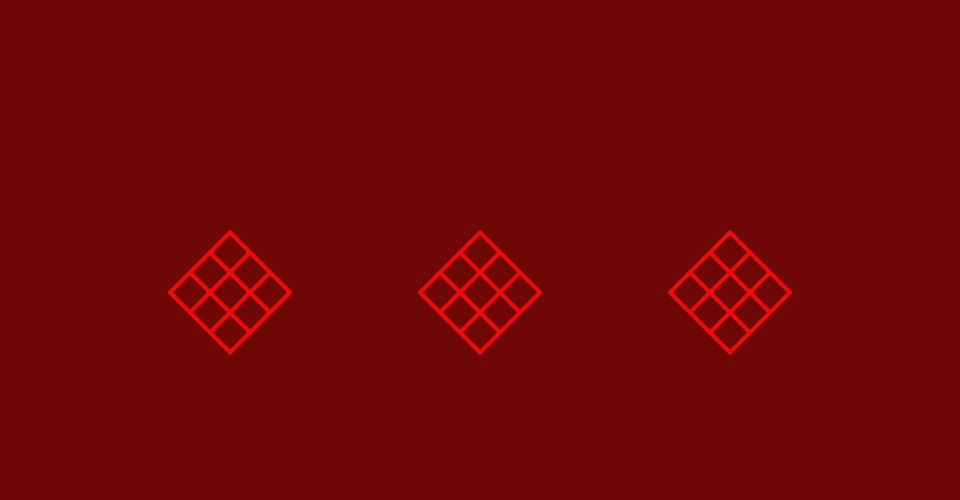
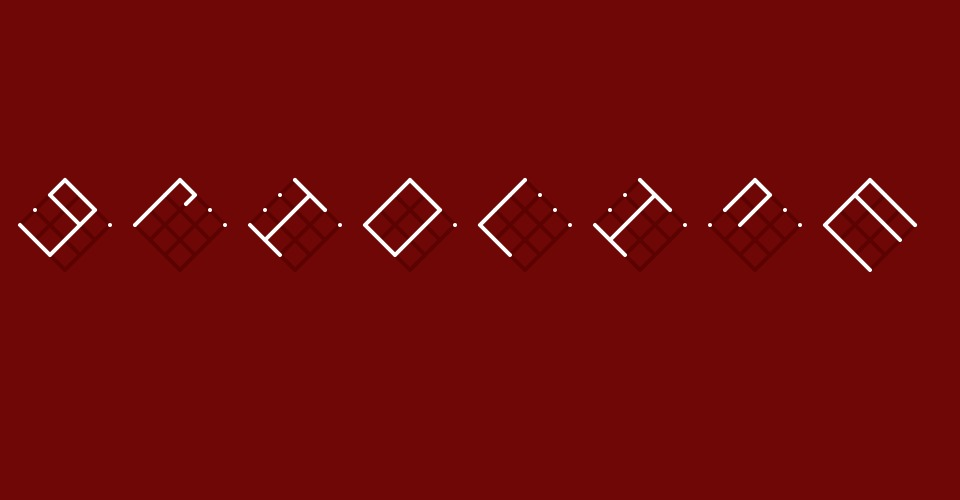
VC. N

diff --git a/index.html b/index.html
@@ -7,22 +7,17 @@
     <script language="javascript" type="text/javascript" src="exhibition.js"></script>
 
   <meta
-    name="Letterforms by UWCC"
+    name="Gridline by Ethan Scarrow"
     content="Code driven letterforms."
   />
   <meta name="description" content="Code driven letterforms" />
-  <meta property="og:title" content="Letterforms by UWCC" />
+  <meta property="og:title" content="Gridline by Ethan Scarrow" />
   <meta property="og:type" content="website" />
-  <meta property="og:url" content="https://uwcc.github.io/23.MDDN242_Parametric_Design/" />
-  <meta property="og:image" content="https://uwcc.github.io/23.MDDN242_Parametric_Design/preview.jpg" />
+  <meta property="og:url" content="https://23-2-dsdn242.github.io/parametric-letterforms-EthansEpic64/" />
+  <meta property="og:image" content="https://23-2-dsdn242.github.io/parametric-letterforms-EthansEpic64/preview.jpg" />
   <meta property="og:image:width" content="960" />
   <meta property="og:image:height" content="500" />
   <meta property="og:description" content="Code driven letterforms" />
-  <meta name="twitter:card" content="summary_large_image" />
-  <meta name="twitter:creator" content="@uwcc" />
-  <meta name="twitter:title" content="Letterforms by UWCC" />
-  <meta name="twitter:description" content="Code driven letterforms" />
-  <meta name="twitter:image" content="https://uwcc.github.io/23.MDDN242_Parametric_Design/preview.jpg" />
 
 </head>
 <body style="background-color:white">

diff --git a/draw_letters.js b/draw_letters.js
@@ -1,6 +1,6 @@
 /* these are optional special variables which will change the system */
 var systemBackgroundColor = "#700707";
-var systemLineColor = "#000000";
+var systemLineColor = "#800d0b";
 var systemBoxColor = "#C73869";
 
 /* internal constants */
@@ -17,9 +17,20 @@ const strokeColor  = "#0a2d27";
  * from (0,0) to (100, 200)
  */
 function drawLetter(letterData) {
+  stroke(92, 2, 1);
+  strokeWeight(4);
+  
+  line(45,50,90,95);
+  line(30,65,75,75+35);
+  line(15,80,60,60+65);
+  line(0,95,45,45+95);
+  line(45,50,-45+45,45+50);
+  line(60,65,-45+60,45+65);
+  line(75,80,-45+75,45+80);
+  line(90,95,-45+90,45+95);
+ 
   // color/stroke setup
   stroke(255);
-  strokeWeight(4);
 
   // determine parameters for lines
   let linelen1 = letterData["line1"];
@@ -56,7 +67,8 @@ function interpolate_letter(percent, oldObj, newObj) {
 }
 
 var swapWords = [
-  "ABBAABBA",
-  "CAB?CAB?",
-  "BAAAAAAA"
+  "GRIDLINE",
+  "ANTONYMS",
+  "CRAFTING",
+  "FOOTBALL"
 ]

diff --git a/sketch.js b/sketch.js
@@ -14,7 +14,7 @@ const canvasHeight = 500;
  */
 
 const letterA = {
-  "coverx": -60,
+  "coverx": 190,
   "covery": -20,
   "sizex": 0,
   "sizey": 40,
@@ -85,12 +85,8 @@ function drawLetter(posx, posy, letterData) {
   line(posx+20,posy-60,posx-40,posy);
   line(posx+40,posy-40,posx-20,posy+20);
 
-
-  push()
-  stroke(255)
-  translate(posx, posy)
-  line(pos2x,pos2y,pos3x,pos3y);
-  pop()
+  stroke(255);
+  line(posx,posy-80,pos2x,pos2x+80);
 }
 
 function keyTyped() {
